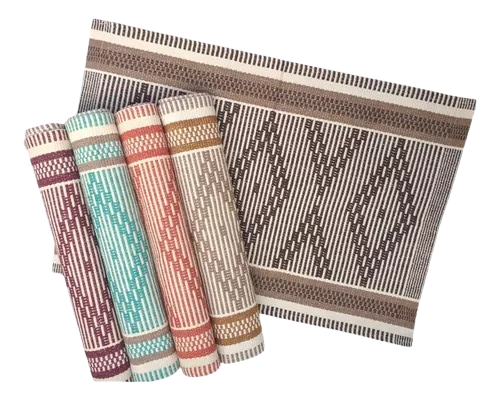
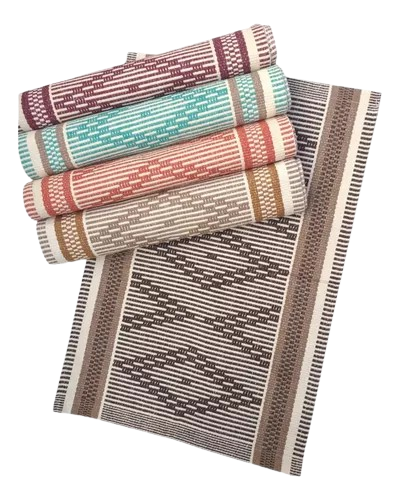
Att produtos

diff --git a/produtos.js b/produtos.js
@@ -32,10 +32,11 @@ const produtos = [
     },
     {
         nome: "Jogo de Panelas",
-        valor: "R$ 550,00",
+        valor: "_",
         imagem: "/img/panelas.png",
         pagamento: "https://checkout.nubank.com.br/DiNnlzaRiG92botq",
-        whatsapp: "https://wa.me/5534996920066/?text=Ol%C3%A1,%20Gostaria%20de%20reservar%20esse%20presente%20(Jogo%20de%20Panelas)."
+        whatsapp: "https://wa.me/5534996920066/?text=Ol%C3%A1,%20Gostaria%20de%20reservar%20esse%20presente%20(Jogo%20de%20Panelas).",
+        disponivel: false
     },
     {
         nome: "Panela De Pressao",
@@ -165,11 +166,11 @@ const produtos = [
     },
     {
         nome: "Cortador Multifunção",
-        valor: "R$ 50,00",
+        valor: "_",
         imagem: "img/cortadorMulti.png",
         pagamento: "https://checkout.nubank.com.br/DiNnlzaRiG92botq",
         whatsapp: "https://wa.me/5534996920066/?text=Ol%C3%A1,%20Gostaria%20de%20reservar%20esse%20presente%20(Cortador%20Multifunção).",
-
+        disponivel: false
     },
     {
         nome: "Jogo de Tabuleiros",
@@ -273,7 +274,6 @@ const produtos = [
         imagem: "img/BoleiraVidro.png",
         pagamento: "https://checkout.nubank.com.br/DiNnlzaRiG92botq",
         whatsapp: "https://wa.me/5534996920066/?text=Ol%C3%A1,%20Gostaria%20de%20reservar%20esse%20presente%20(Boleira).",
-        disponivel: false
     }
     // Adicione novos produtos aqui facilmente
 ]; 
